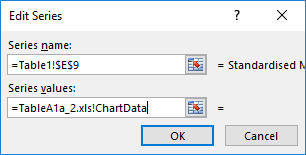
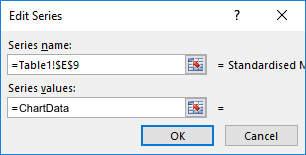
update filename reference

Changed region(s): [[0.0588, 0.671, 0.5, 0.7484]]

diff --git a/docs/charts-auto-update.html b/docs/charts-auto-update.html
@@ -133,7 +133,7 @@
 </ol>
 <p><img src="images/chartau-04-createname.PNG" style="display: block; margin: auto;" />  </p>
 <ol start="5" style="list-style-type: decimal">
-<li>Finally, select the chart and right-click, click on “Select Data…”, and then click on “Edit” for the series values. To have the series reference this named variable we type in a combination of the Excel filename (TableA1a_2.xls), an exclamation point, and the named variable.</li>
+<li>Finally, select the chart and right-click, click on “Select Data…”, and then click on “Edit” for the series values. Add the named variable as the series value.</li>
 </ol>
 <p><img src="images/chartau-05-editseries.PNG" style="display: block; margin: auto;" />  </p>
 <p>These steps should then be repeated for the X-Axis values, and once for each line within your chart. After completing this, the charts should be automically updated with each new quarter’s data that is added.</p>
